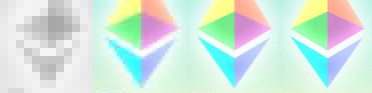
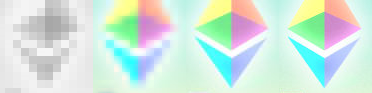
Addded bottom buttons and disclaimer

diff --git a/frontend/src/components/DappMiner.js b/frontend/src/components/DappMiner.js
@@ -71,55 +71,87 @@ export class DappMiner extends React.Component {
     render() {
         // If everything is loaded, we render the application.
         return (
-            <div
-                className="container p-4"
-                style={{
-                    maxWidth: "720px",
-                    height: "100%"
-                }}
-            >
-                <div className="container py-3">
-                    <ConnectWallet
-                        connectWallet={() => this._connectWallet()}
-                        message={this.state.connectMessage || this.state.selectedAddress}
-                        web3={this.state.web3}
-                    />
-                </div>
-
+            <>
                 <div
-                    className="container text-start py-3"
+                    className="container p-4"
                     style={{
-                        backgroundImage: 'url("minecraft-diamond-light.jpg")',
-                        backgroundPosition: "center center",
-                        backgroundRepeat: "no-repeat"
+                        maxWidth: "720px",
+                        height: "100%"
                     }}
                 >
-                    <Instructions />
-                </div>
-
-                <div className="container py-3">
-                    {/* ADD QUESTION MARK NEXT TO INPUT ETH AMOUNT THAT EXPLAINS THIS IS THE ESTIMATED MINTING FEE IN ADDITION TO THE TX FEE, AND ALSO SPECIFIES HOW MUCH GAS MUST BE PAID */}
-                    {this.state.web3 && this.state.nextScan < 100 && (
-                        <Mine
-                            mineFunc={(amount) => this._mine(amount)}
-                            maxFeeETH={() => {
-                                if (this.state.maxFeeWeiNext === undefined) return "Amount ETH";
-
-                                const remainder = this.state.maxFeeWeiNext.mod(1e14);
-                                return `~${ethers.utils.formatEther(this.state.maxFeeWeiNext.sub(remainder))} ETH`;
-                            }}
-                            next={this.state.nextScan}
-                            enable={this.state.canMine}
+                    <div className="container py-3">
+                        <ConnectWallet
+                            connectWallet={() => this._connectWallet()}
+                            message={this.state.connectMessage || this.state.selectedAddress}
+                            web3={this.state.web3}
                         />
+                    </div>
+                    <div
+                        className="container text-start py-3"
+                        style={{
+                            backgroundImage: 'url("minecraft-diamond-light.jpg")',
+                            backgroundPosition: "center center",
+                            backgroundRepeat: "no-repeat"
+                        }}
+                    >
+                        <Instructions />
+                    </div>
+                    <div className="container py-3">
+                        {/* ADD QUESTION MARK NEXT TO INPUT ETH AMOUNT THAT EXPLAINS THIS IS THE ESTIMATED MINTING FEE IN ADDITION TO THE TX FEE, AND ALSO SPECIFIES HOW MUCH GAS MUST BE PAID */}
+                        {this.state.web3 && this.state.nextScan < 100 && (
+                            <Mine
+                                mineFunc={(amount) => this._mine(amount)}
+                                maxFeeETH={() => {
+                                    if (this.state.maxFeeWeiNext === undefined) return "Amount ETH";
+
+                                    const remainder = this.state.maxFeeWeiNext.mod(1e14);
+                                    return `~${ethers.utils.formatEther(this.state.maxFeeWeiNext.sub(remainder))} ETH`;
+                                }}
+                                next={this.state.nextScan}
+                                enable={this.state.canMine}
+                            />
+                        )}
+                    </div>
+                    {this.state.errorMessage && (
+                        <div
+                            className="p-3 m-auto rounded-3"
+                            style={{ backgroundColor: "Lavender", maxWidth: "500px" }}
+                        >
+                            <ErrorMessage errorMessage={this.state.errorMessage} OSlink={this.state.OSlink} />
+                        </div>
                     )}
                 </div>
-
-                {this.state.errorMessage && (
-                    <div className="p-3 m-auto rounded-3" style={{ backgroundColor: "Lavender", maxWidth: "500px" }}>
-                        <ErrorMessage errorMessage={this.state.errorMessage} OSlink={this.state.OSlink} />
+                <div className="py-3 align-top" style={{ backgroundColor: "lightgray", textAlign: "center" }}>
+                    <a href="https://discord.gg/QDnGyHR2FM">
+                        <img className="mx-3" src="/icons8-discord-new-30.png" width="30" height="30"></img>
+                    </a>
+                    <a href="https://twitter.com/Xatarrer">
+                        <img className="mx-3" src="/icons8-twitter-circled-30.png" width="30" height="30"></img>
+                    </a>
+                    <div
+                        className="mx-3 align-middle"
+                        style={{
+                            display: "inline-block",
+                            minHeight: "30px",
+                            lineHeight: 1
+                            // width: "200px"
+                        }}
+                    >
+                        <span
+                            className="align-middle"
+                            style={{
+                                fontSize: "xx-small"
+                            }}
+                        >
+                            <strong>Disclarimer</strong>: Smart contract on Ethereum with address XXX is unaudited.
+                            Authors take no responsability on any failure or unexpected behavior.
+                            <br></br>
+                            The Party understands and accepts that there is no warranty when interacting with the smart
+                            contract.
+                        </span>
                     </div>
-                )}
-            </div>
+                </div>
+            </>
         );
     }
 

diff --git a/frontend/src/components/Instructions.js b/frontend/src/components/Instructions.js
@@ -33,10 +33,10 @@ export function Instructions() {
             </p>
             <ul className="list-unstyled">
                 <div
-                    className="float-end mx-2"
+                    className="float-end m-2 mb-3"
                     style={{
                         backgroundColor: "white",
-                        maxWidth: "40%",
+                        width: "260px",
                         position: "relative",
                         border: "1px solid MidnightBlue"
                     }}
@@ -54,7 +54,7 @@ export function Instructions() {
                             fontSize: "x-small"
                         }}
                     >
-                        From left to right, tiny portion of #09, #39, #69 and #99
+                        From left to right, tiny portion of #10, #32, #65 and #99
                     </span>
                 </div>
                 <li className="ms-4">
